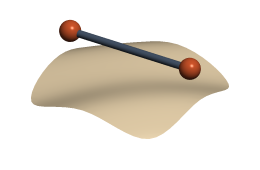
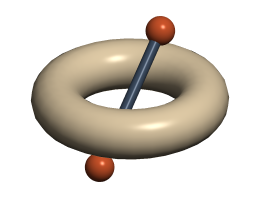
Replace literal coordinate table and inline RGB arrays in rendering.md

diff --git a/docs/rendering.md b/docs/rendering.md
@@ -65,20 +65,22 @@ Rendering separates into two layers. Marks (`quadrics`, `simplices`, `contours`,
 from numga.render import Camera, composited, quadrics, simplices
 from numga.topology import Topology
 
+blue, copper, slate, sand = np.array([
+    [0.15, 0.48, 0.78], [0.78, 0.32, 0.16], [0.24, 0.30, 0.38], [0.86, 0.78, 0.64],
+])
 camera = Camera(
     across=mv.x, up=mv.y, toward=0 * mv.x, weight=mv.w, unit=0.0,
-    middle=np.array([0.0, 0.0]), half=np.array([1.3, 1.0]), pixels=240,
+    middle=np.zeros(2), half=np.array([1.3, 1.0]), pixels=240,
 )
 ellipse = 0.7 * mv.x * (mv.x & Point) + 1.6 * mv.y * (mv.y & Point) - mv.w * (mv.w & Point)
 turns = (mv.xy * np.linspace(0, np.pi, 5, endpoint=False)).exp()         # [5] Motor+
 pentagon = turns >> mv.point([0.92, 0.0])                                # [5] Point-
-loop = Topology.loops([5])
 
 rgba = composited([
-    quadrics.regions(ellipse[None, None], np.array([[0.15, 0.48, 0.78]]), camera, opacity=0.20),
-    quadrics.curves(ellipse[None], 2.0, np.array([[0.15, 0.48, 0.78]]), camera),
-    simplices.strokes(pentagon, loop, np.array([0.82, 0.36, 0.14]), 2.2, camera),
-    simplices.markers(pentagon, np.array([0.16, 0.22, 0.30]), 4.0, camera),
+    quadrics.regions(ellipse[None, None], blue[None], camera, opacity=0.20),
+    quadrics.curves(ellipse[None], 2.0, blue[None], camera),
+    simplices.strokes(pentagon, Topology.loops([5]), copper, 2.2, camera),
+    simplices.markers(pentagon, slate, 4.0, camera),
 ])
 print(rgba.shape)
 ```
@@ -100,32 +102,28 @@ from numga.render import meshes, solids
 from numga.render.scene import Scene
 
 sm = solids.mv
-sheet = Topology.grid(3, 3).loop_subdivided(np.zeros(9, dtype=bool), n_steps=3)
-control = sm.point([
-    [-1, -1, -0.35], [0, -1, 0.25], [1, -1, -0.35],
-    [-1,  0,  0.25], [0,  0, 0.00], [1,  0,  0.25],
-    [-1,  1, -0.35], [0,  1, 0.25], [1,  1, -0.35],
-]).field()                                                               # Point-[9]
-surface_points = (sheet.subdivision * control).batch()                   # [289] Point-
+torus = Topology.torus(32, 16)
+major = (sm.xy * np.linspace(0, np.pi, 32, endpoint=False)).exp()        # [32] Motor+
+minor = (sm.xz * np.linspace(0, np.pi, 16, endpoint=False)).exp()        # [16] Motor+
+ring = (sm.xw * 0.35).exp() >> (minor >> sm.point([0.24, 0, 0]))         # [16] Point-
+surface_points = (major[:, None] >> ring).reshape(-1)                    # [512] Point-
 
-ends = sm.point([[-0.85, 0.0, 0.42], [0.85, 0.0, 0.42]])                 # [2] Point-
-rod = solids.rods(ends[0], ends[1], 0.045)[None]                         # [1, 3] Plane+ <- Point-
-balls = solids.ball(ends, 0.13)[:, None]                                 # [2, 1] Plane+ <- Point-
+ends = sm.point([[0, -0.55, -0.48], [0, 0.55, 0.48]])                    # [2] Point-
+rod = solids.rods(ends[0], ends[1], 0.055)[None]                         # [1, 3] Plane+ <- Point-
+balls = solids.ball(ends, 0.14)[:, None]                                 # [2, 1] Plane+ <- Point-
 
-view = solids.view([surface_points, ends], reach=0.2, elevation=np.radians(28),
-                   azimuth=np.radians(34), margin=0.12, pixels=260)
-surface = meshes.samples(surface_points, sheet.elements[2], np.array([0.86, 0.78, 0.64]),
-                         meshes.smooth(surface_points, sheet), view, np.zeros(1), meshes.plain, gloss=0.25)
-scene = Scene(view, np.ones(3), [(rod, np.array([0.28, 0.34, 0.42])), (balls, np.array([0.78, 0.32, 0.16]))],
-              [(surface, 1.0)], inks=[], translucent=[])
+view = solids.view([surface_points, ends], reach=0.18, elevation=0.5, azimuth=0.55, margin=0.10, pixels=260)
+surface = meshes.samples(surface_points, torus.elements[2], sand,
+                         meshes.smooth(surface_points, torus), view, np.zeros(1), meshes.plain, gloss=0.28)
+scene = Scene(view, np.ones(3), [(rod, slate), (balls, copper)], [(surface, 1.0)], inks=[], translucent=[])
 rgb = scene.draw([], [], [], [])
 print(rgb.shape)
 ```
 
 ```text
-(170, 260, 3)
+(198, 260, 3)
 ```
 
-<p align="center"><img src="../plots/rendering_3d.png" alt="A smooth Loop-subdivided saddle surface shaded beneath a slate cylindrical rod capped by two copper spheres" width="260" /></p>
+<p align="center"><img src="../plots/rendering_3d.png" alt="A smooth triangulated torus swept by PGA3D motors with a ray-traced slate rod capped by copper spheres threaded through its hole" width="260" /></p>
 
 `meshes.smooth` sums the joined tangent planes (`a & b & c`) of incident triangles around each vertex so lighting operates directly on intrinsic `Patch-` planes paired against the camera's screen frame, sharing identical key-lamp, sky-ground fill, headlight and specular shading across analytic quadrics and triangulated surfaces.
